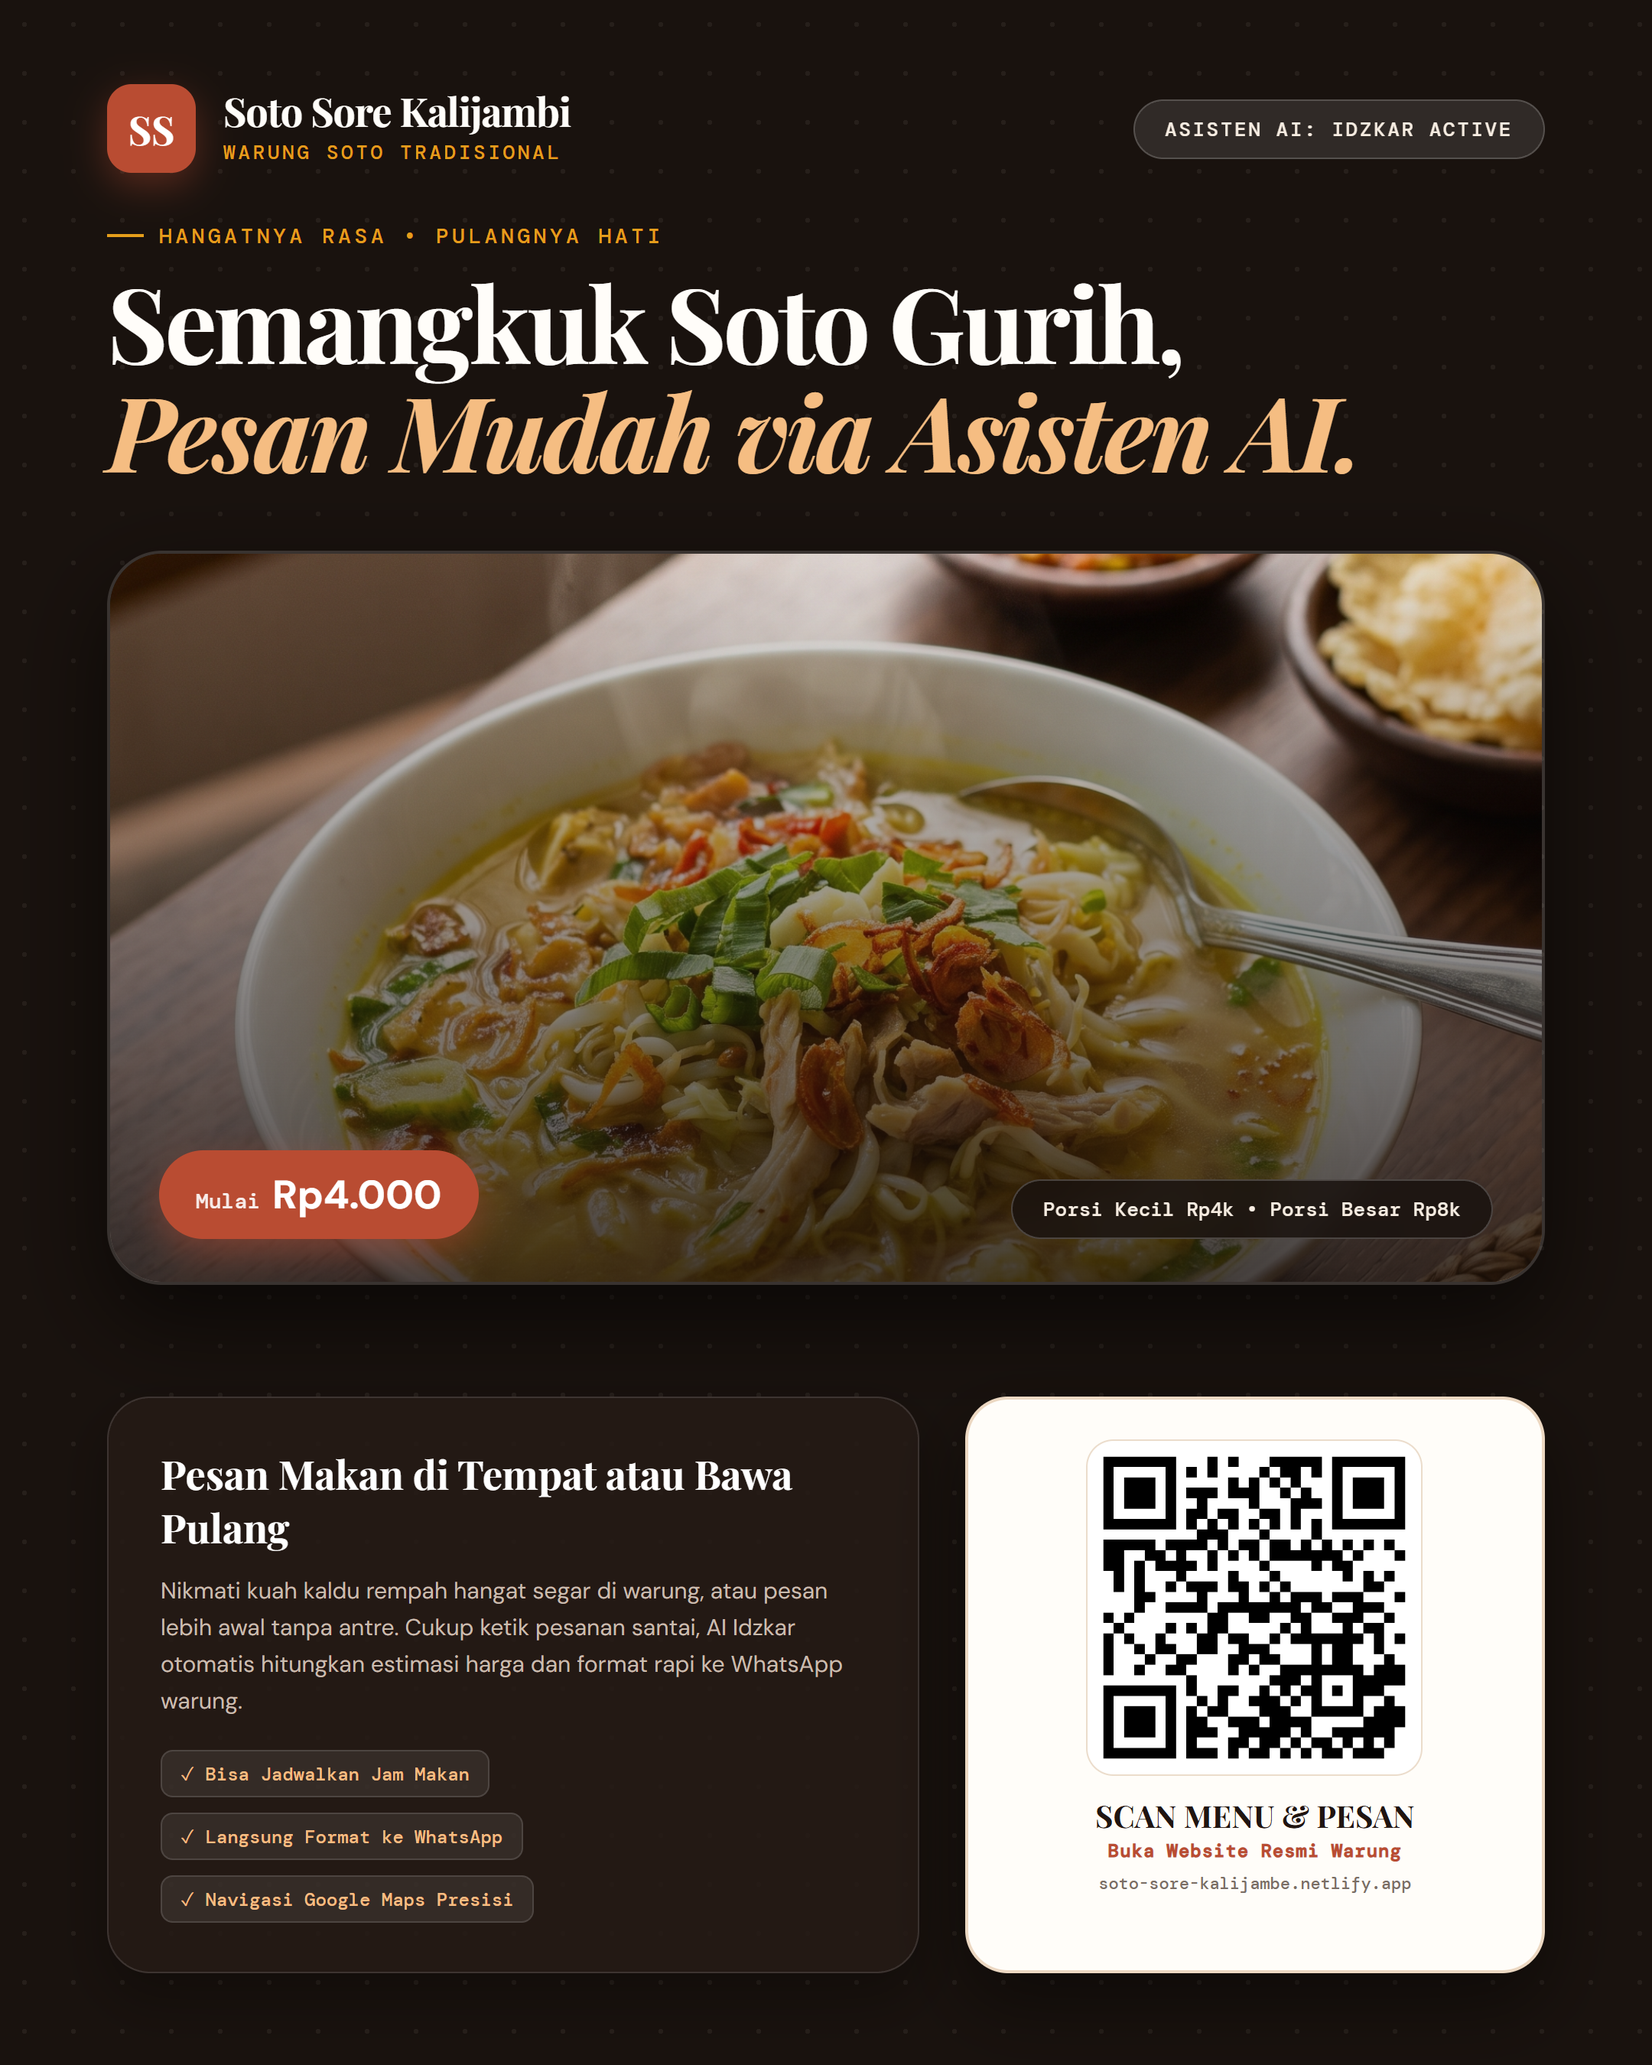
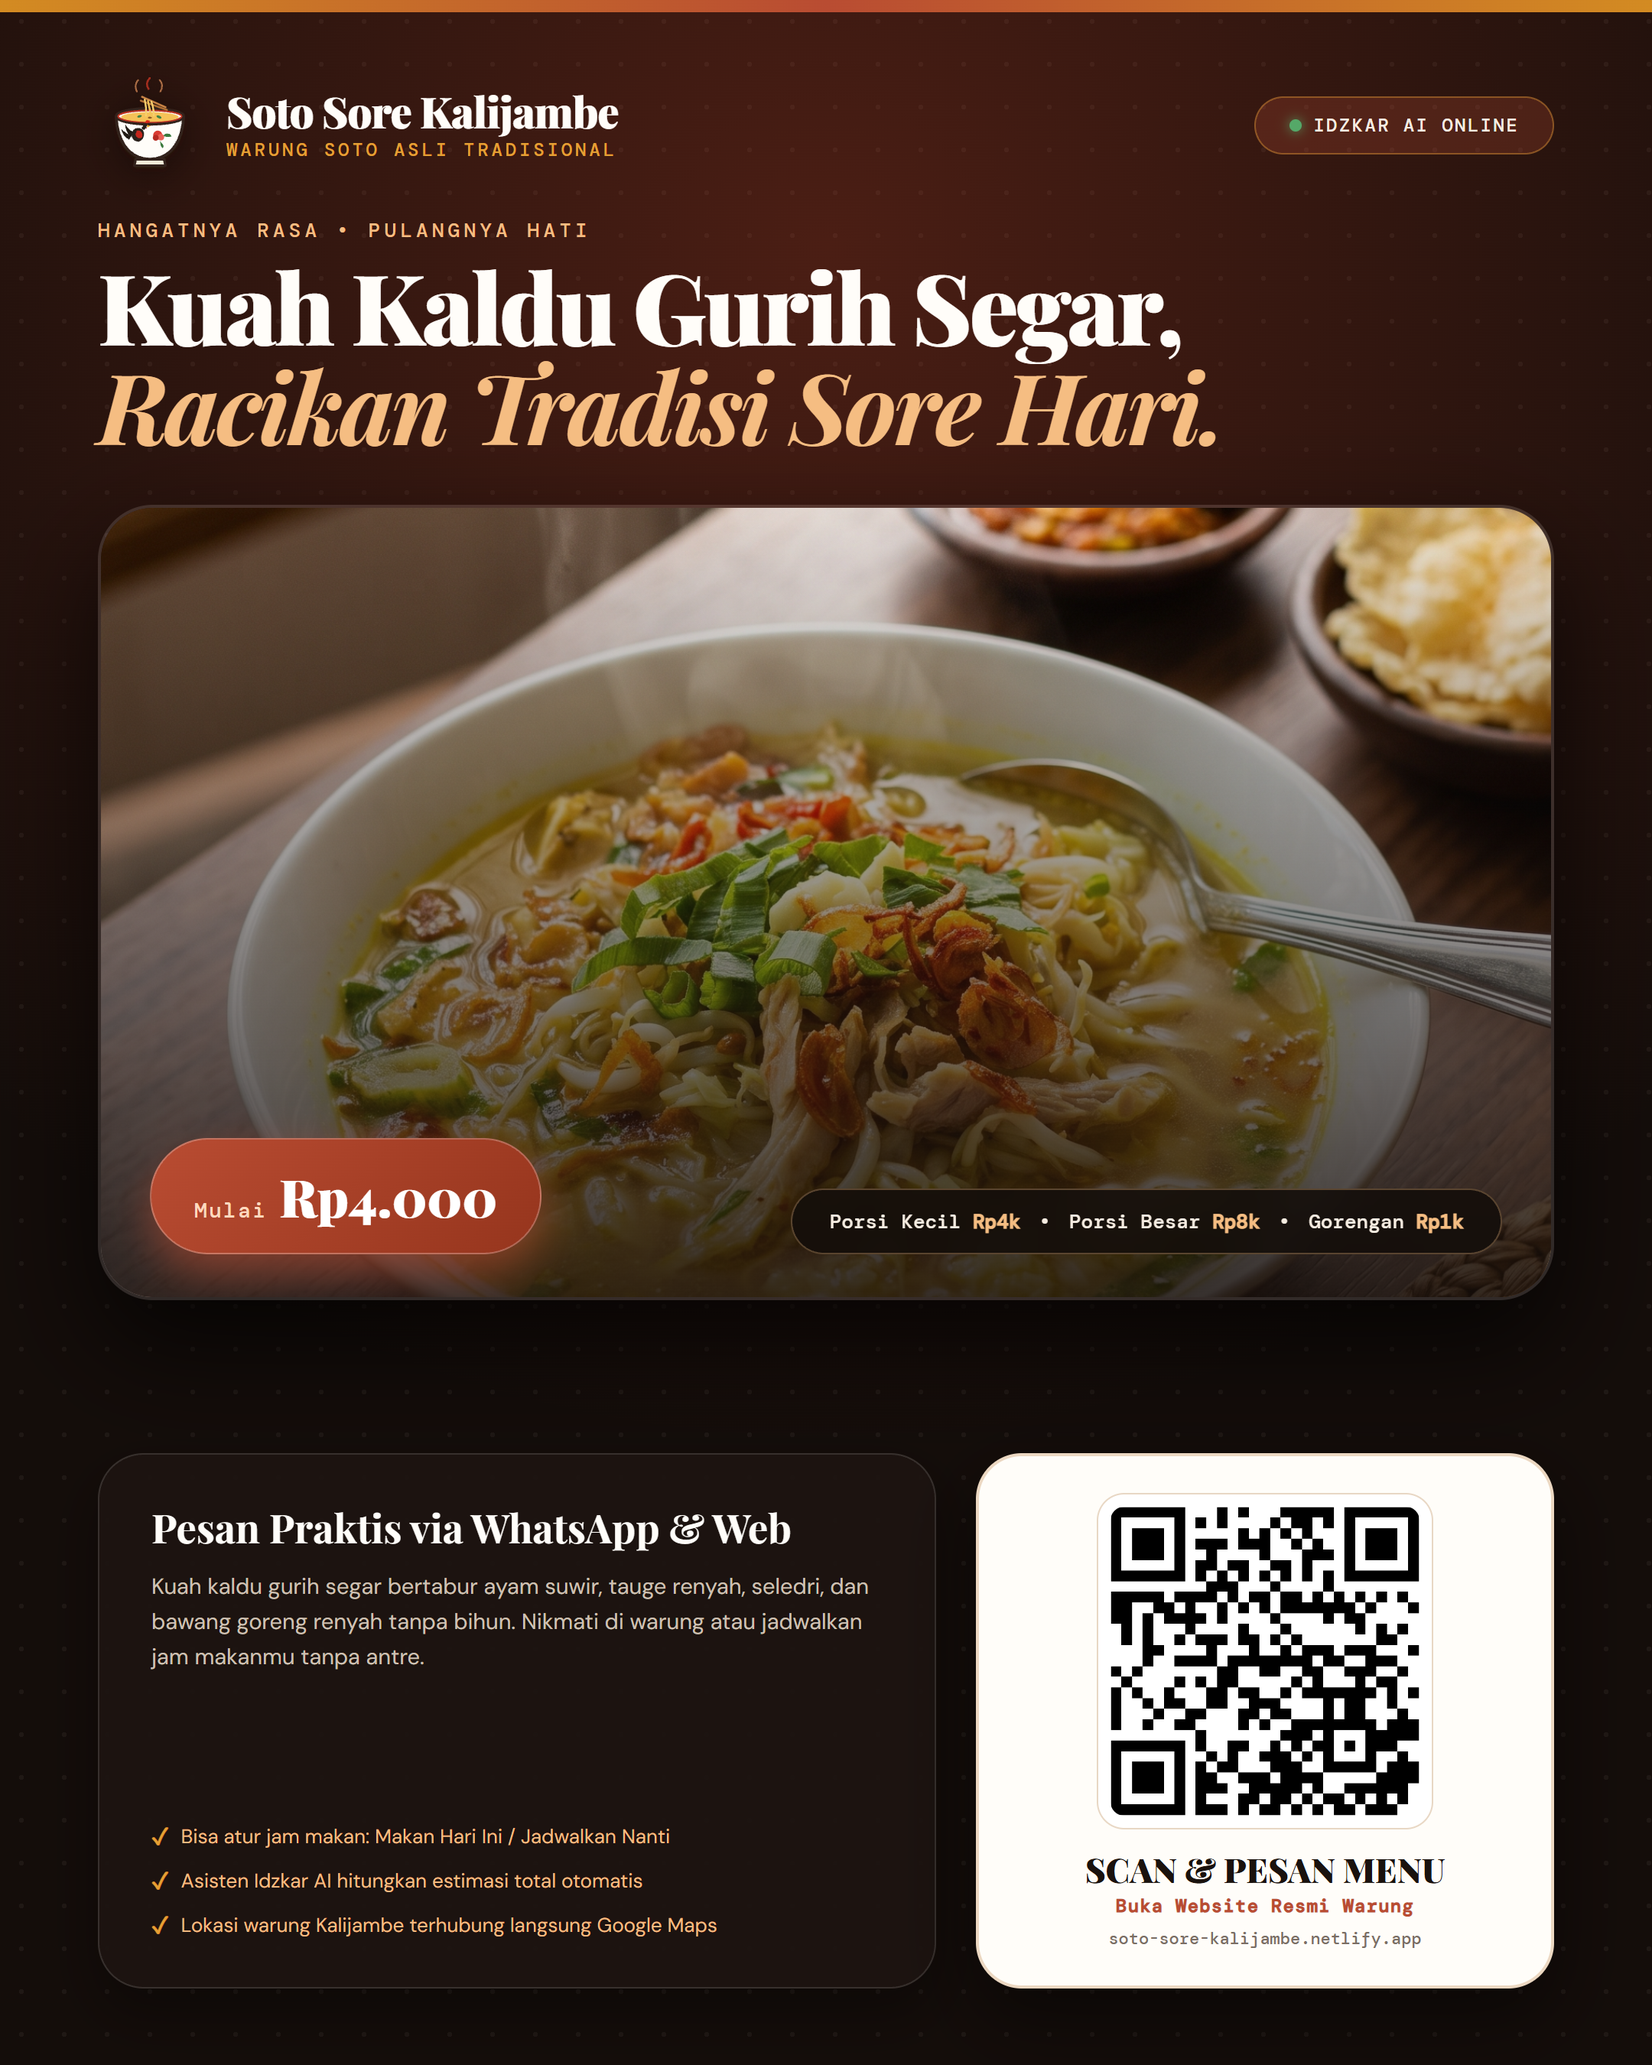
fix: update Kalijambe spelling and soto ingredients description, refresh promo poster

diff --git a/poster-kalijambe.html b/poster-kalijambe.html
@@ -1,0 +1,362 @@
+<!DOCTYPE html>
+<html lang="id">
+<head>
+<meta charset="utf-8">
+<style>
+  @import url('https://fonts.googleapis.com/css2?family=DM+Mono:wght@500;700&family=DM+Sans:ital,wght@0,400;0,600;0,700;1,400;1,600&family=Playfair+Display:ital,wght@0,600;0,700;0,900;1,600;1,700;1,900&display=swap');
+
+  * { box-sizing: border-box; margin: 0; padding: 0; }
+  body {
+    width: 1080px;
+    height: 1350px;
+    background: #140d0a;
+    color: #fffdf9;
+    font-family: 'DM Sans', sans-serif;
+    position: relative;
+    overflow: hidden;
+  }
+
+  /* Vintage Batik/Tenun Micro-Pattern Background */
+  .bg-pattern {
+    position: absolute;
+    inset: 0;
+    background-image: 
+      radial-gradient(circle at 50% 12%, rgba(217, 74, 46, 0.28) 0%, transparent 60%),
+      radial-gradient(rgba(247, 241, 232, 0.05) 1.5px, transparent 1.5px);
+    background-size: 100% 100%, 28px 28px;
+    z-index: 1;
+  }
+
+  .top-strip {
+    position: absolute;
+    top: 0;
+    left: 0;
+    right: 0;
+    height: 8px;
+    background: linear-gradient(90deg, #d38b22, #b94c32, #d38b22);
+    z-index: 20;
+  }
+
+  /* Header Branding */
+  .header {
+    position: absolute;
+    top: 48px;
+    left: 64px;
+    right: 64px;
+    display: flex;
+    justify-content: space-between;
+    align-items: center;
+    z-index: 10;
+  }
+  .brand-group {
+    display: flex;
+    align-items: center;
+    gap: 16px;
+  }
+  .mascot-icon {
+    width: 68px;
+    height: 68px;
+    object-fit: contain;
+    filter: drop-shadow(0 4px 14px rgba(0,0,0,0.5));
+  }
+  .brand-title h2 {
+    font-family: 'Playfair Display', serif;
+    font-size: 28px;
+    font-weight: 800;
+    letter-spacing: -0.02em;
+    color: #fffdf9;
+    line-height: 1.05;
+  }
+  .brand-title span {
+    font-family: 'DM Mono', monospace;
+    font-size: 12px;
+    color: #e5a034;
+    letter-spacing: 0.16em;
+    text-transform: uppercase;
+    margin-top: 3px;
+    display: block;
+  }
+
+  .badge-pilihan {
+    background: rgba(185, 76, 50, 0.25);
+    border: 1px solid rgba(229, 160, 52, 0.4);
+    padding: 10px 22px;
+    border-radius: 99px;
+    display: flex;
+    align-items: center;
+    gap: 8px;
+    font-family: 'DM Mono', monospace;
+    font-size: 12px;
+    letter-spacing: 0.1em;
+    color: #f7ede2;
+  }
+  .badge-dot {
+    width: 8px;
+    height: 8px;
+    border-radius: 50%;
+    background: #55a868;
+    box-shadow: 0 0 8px #55a868;
+  }
+
+  /* Main Headline */
+  .headline-section {
+    position: absolute;
+    top: 142px;
+    left: 64px;
+    right: 64px;
+    z-index: 10;
+  }
+  .tagline-eyebrow {
+    font-family: 'DM Mono', monospace;
+    font-size: 13px;
+    letter-spacing: 0.2em;
+    color: #f5bd82;
+    text-transform: uppercase;
+    margin-bottom: 8px;
+  }
+  h1 {
+    font-family: 'Playfair Display', serif;
+    font-size: 64px;
+    font-weight: 800;
+    line-height: 1.02;
+    letter-spacing: -0.03em;
+    color: #fffdf9;
+  }
+  h1 em {
+    font-style: italic;
+    color: #f5bd82;
+    font-weight: 700;
+  }
+
+  /* Center Stage: Hero Food Photography */
+  .hero-card {
+    position: absolute;
+    top: 330px;
+    left: 64px;
+    right: 64px;
+    height: 520px;
+    border-radius: 36px;
+    overflow: hidden;
+    z-index: 5;
+    box-shadow: 0 30px 70px rgba(0, 0, 0, 0.75);
+    border: 2px solid rgba(255, 255, 255, 0.12);
+  }
+  .hero-card img {
+    width: 100%;
+    height: 100%;
+    object-fit: cover;
+  }
+  .hero-card-gradient {
+    position: absolute;
+    inset: 0;
+    background: linear-gradient(180deg, rgba(20,13,10,0.08) 0%, rgba(20,13,10,0.85) 100%);
+  }
+
+  /* Floating Badges on Photo */
+  .price-tag-big {
+    position: absolute;
+    bottom: 28px;
+    left: 32px;
+    background: linear-gradient(135deg, #b94c32, #96351d);
+    color: #fff;
+    padding: 14px 28px;
+    border-radius: 99px;
+    display: flex;
+    align-items: baseline;
+    gap: 8px;
+    box-shadow: 0 12px 28px rgba(185, 76, 50, 0.6);
+    border: 1px solid rgba(255, 255, 255, 0.25);
+  }
+  .price-tag-big span {
+    font-family: 'DM Mono', monospace;
+    font-size: 14px;
+    letter-spacing: 0.08em;
+    color: #fed9bf;
+  }
+  .price-tag-big strong {
+    font-family: 'Playfair Display', serif;
+    font-size: 34px;
+    font-weight: 800;
+  }
+
+  .ingredients-badge {
+    position: absolute;
+    bottom: 28px;
+    right: 32px;
+    background: rgba(18, 12, 9, 0.88);
+    backdrop-filter: blur(12px);
+    border: 1px solid rgba(245, 189, 130, 0.3);
+    padding: 12px 24px;
+    border-radius: 99px;
+    font-family: 'DM Mono', monospace;
+    font-size: 13px;
+    color: #f7ede2;
+    display: flex;
+    align-items: center;
+    gap: 12px;
+  }
+  .ingredients-badge strong {
+    color: #f5bd82;
+  }
+
+  /* Bottom Split: Highlights + Scannable QR */
+  .bottom-row {
+    position: absolute;
+    bottom: 50px;
+    left: 64px;
+    right: 64px;
+    display: grid;
+    grid-template-columns: 1.45fr 1fr;
+    gap: 26px;
+    z-index: 10;
+  }
+
+  .info-card {
+    background: rgba(28, 20, 16, 0.92);
+    border: 1px solid rgba(255, 255, 255, 0.12);
+    border-radius: 30px;
+    padding: 30px 34px;
+    display: flex;
+    flex-direction: column;
+    justify-content: space-between;
+    box-shadow: 0 16px 36px rgba(0,0,0,0.35);
+  }
+  .info-title {
+    font-family: 'Playfair Display', serif;
+    font-size: 26px;
+    font-weight: 700;
+    color: #fffdf9;
+    margin-bottom: 10px;
+  }
+  .info-desc {
+    font-size: 14.5px;
+    line-height: 1.6;
+    color: #cec1b5;
+    margin-bottom: 18px;
+  }
+  .feature-list {
+    display: flex;
+    flex-direction: column;
+    gap: 8px;
+  }
+  .feature-item {
+    font-size: 13px;
+    font-family: 'DM Sans', sans-serif;
+    color: #f5bd82;
+    display: flex;
+    align-items: center;
+    gap: 8px;
+  }
+  .feature-item span {
+    color: #e5a034;
+    font-size: 15px;
+    font-weight: bold;
+  }
+
+  /* QR Box Call to Action */
+  .qr-card {
+    background: #fffdf9;
+    color: #1e1410;
+    border-radius: 30px;
+    padding: 24px;
+    display: flex;
+    flex-direction: column;
+    align-items: center;
+    text-align: center;
+    box-shadow: 0 20px 50px rgba(0,0,0,0.5);
+    border: 2px solid #ecd8c2;
+  }
+  .qr-code-img {
+    width: 220px;
+    height: 220px;
+    background: #fff;
+    border-radius: 18px;
+    padding: 8px;
+    border: 1px solid #e8d7c4;
+    display: block;
+  }
+  .qr-heading {
+    margin-top: 14px;
+    font-family: 'Playfair Display', serif;
+    font-size: 22px;
+    font-weight: 800;
+    line-height: 1.1;
+    color: #1a120e;
+  }
+  .qr-subtext {
+    margin-top: 4px;
+    font-family: 'DM Mono', monospace;
+    font-size: 12px;
+    color: #b94c32;
+    font-weight: 700;
+    letter-spacing: 0.05em;
+  }
+  .qr-site-url {
+    margin-top: 6px;
+    font-family: 'DM Mono', monospace;
+    font-size: 11px;
+    color: #7a6e65;
+  }
+</style>
+</head>
+<body>
+<div class="top-strip"></div>
+<div class="bg-pattern"></div>
+
+<div class="header">
+  <div class="brand-group">
+    <img class="mascot-icon" src="C:/Users/Lenovo/Desktop/soto sore/public/assets/mascot-ayam-jago.svg" alt="Maskot Ayam Jago Soto Sore">
+    <div class="brand-title">
+      <h2>Soto Sore Kalijambe</h2>
+      <span>Warung Soto Asli Tradisional</span>
+    </div>
+  </div>
+  <div class="badge-pilihan">
+    <span class="badge-dot"></span>
+    <span>IDZKAR AI ONLINE</span>
+  </div>
+</div>
+
+<div class="headline-section">
+  <p class="tagline-eyebrow">HANGATNYA RASA • PULANGNYA HATI</p>
+  <h1>Kuah Kaldu Gurih Segar,<br><em>Racikan Tradisi Sore Hari.</em></h1>
+</div>
+
+<div class="hero-card">
+  <img src="C:/Users/Lenovo/Desktop/soto sore/public/assets/soto-bowl-meja.jpeg" alt="Semangkuk Soto Ayam Gurih Hangat Kalijambe">
+  <div class="hero-card-gradient"></div>
+  <div class="price-tag-big">
+    <span>Mulai</span>
+    <strong>Rp4.000</strong>
+  </div>
+  <div class="ingredients-badge">
+    <span>Porsi Kecil <strong>Rp4k</strong></span>
+    <span>•</span>
+    <span>Porsi Besar <strong>Rp8k</strong></span>
+    <span>•</span>
+    <span>Gorengan <strong>Rp1k</strong></span>
+  </div>
+</div>
+
+<div class="bottom-row">
+  <div class="info-card">
+    <div>
+      <h3 class="info-title">Pesan Praktis via WhatsApp & Web</h3>
+      <p class="info-desc">Kuah kaldu gurih segar bertabur ayam suwir, tauge renyah, seledri, dan bawang goreng renyah tanpa bihun. Nikmati di warung atau jadwalkan jam makanmu tanpa antre.</p>
+    </div>
+    <div class="feature-list">
+      <div class="feature-item"><span>✓</span> Bisa atur jam makan: Makan Hari Ini / Jadwalkan Nanti</div>
+      <div class="feature-item"><span>✓</span> Asisten Idzkar AI hitungkan estimasi total otomatis</div>
+      <div class="feature-item"><span>✓</span> Lokasi warung Kalijambe terhubung langsung Google Maps</div>
+    </div>
+  </div>
+
+  <div class="qr-card">
+    <img class="qr-code-img" src="C:/Users/Lenovo/Desktop/soto sore/public/assets/qr-website-soto.png" alt="Scan QR Code Website">
+    <div class="qr-heading">SCAN & PESAN MENU</div>
+    <div class="qr-subtext">Buka Website Resmi Warung</div>
+    <div class="qr-site-url">soto-sore-kalijambe.netlify.app</div>
+  </div>
+</div>
+</body>
+</html>

diff --git a/public/index.html b/public/index.html
@@ -15,9 +15,9 @@
     <p class="eyebrow">CERITA KAMI</p>
     <h2>Semangkuk kecil,<br><em>rasa besar.</em></h2>
   </div>
-  <p class="intro-copy">Di Soto Sore Kalijambi, setiap mangkuk diracik hangat dengan rasa yang akrab. Dari kuah gurih sampai taburan bawang goreng, semua dibuat untuk jadi jeda terbaik di penghujung hari.</p>
+  <p class="intro-copy">Di Soto Sore Kalijambe, setiap mangkuk diracik hangat dengan rasa yang akrab. Dari kuah gurih sampai taburan bawang goreng, semua dibuat untuk jadi jeda terbaik di penghujung hari.</p>
 </section>
-<section id="menu" class="menu-section"><div class="section-head"><div><p class="eyebrow">MENU HARI INI</p><h2>Pilih yang<br><em>menghangatkan.</em></h2></div><p>Menu sederhana, bahan familiar,<br>rasa yang ingin diulang.</p></div><div class="menu-grid"><div class="menu-card featured"><span class="menu-no">01 / SOTO</span><h3>Soto Ayam<br>Porsi Besar</h3><p>Kuah kuning gurih, ayam suwir, tauge, bihun, seledri, dan bawang goreng.</p><strong>Rp8.000</strong><span class="card-line"></span></div><div class="menu-card"><span class="menu-no">02 / SOTO</span><h3>Soto Ayam<br>Porsi Kecil</h3><p>Pas untuk teman sore atau penghangat sebelum pulang.</p><strong>Rp4.000</strong><span class="card-line"></span></div><div class="menu-card"><span class="menu-no">03 / MINUMAN</span><h3>Teh</h3><p>Es atau hangat.</p><strong>Rp3.000</strong><span class="card-line"></span></div><div class="menu-card"><span class="menu-no">04 / MINUMAN</span><h3>Jeruk & Susu</h3><p>Es atau hangat.</p><strong>Rp4.000</strong><span class="card-line"></span></div><div class="menu-card"><span class="menu-no">05 / PELENGKAP</span><h3>Gorengan</h3><p>Teman renyah untuk kuah hangat.</p><strong>Rp1.000</strong><span class="card-line"></span></div><div class="menu-card"><span class="menu-no">06 / PELENGKAP</span><h3>Tusukan & Pangsit</h3><p>Tusukan Rp3.000 · Pangsit Rp1.500 · Krupuk Rp1.000</p><strong>Mulai Rp1.000</strong><span class="card-line"></span></div></div></section>
+<section id="menu" class="menu-section"><div class="section-head"><div><p class="eyebrow">MENU HARI INI</p><h2>Pilih yang<br><em>menghangatkan.</em></h2></div><p>Menu sederhana, bahan familiar,<br>rasa yang ingin diulang.</p></div><div class="menu-grid"><div class="menu-card featured"><span class="menu-no">01 / SOTO</span><h3>Soto Ayam<br>Porsi Besar</h3><p>Kuah kaldu gurih segar, ayam suwir, tauge, seledri, dan taburan bawang goreng.</p><strong>Rp8.000</strong><span class="card-line"></span></div><div class="menu-card"><span class="menu-no">02 / SOTO</span><h3>Soto Ayam<br>Porsi Kecil</h3><p>Pas untuk teman sore atau penghangat sebelum pulang.</p><strong>Rp4.000</strong><span class="card-line"></span></div><div class="menu-card"><span class="menu-no">03 / MINUMAN</span><h3>Teh</h3><p>Es atau hangat.</p><strong>Rp3.000</strong><span class="card-line"></span></div><div class="menu-card"><span class="menu-no">04 / MINUMAN</span><h3>Jeruk & Susu</h3><p>Es atau hangat.</p><strong>Rp4.000</strong><span class="card-line"></span></div><div class="menu-card"><span class="menu-no">05 / PELENGKAP</span><h3>Gorengan</h3><p>Teman renyah untuk kuah hangat.</p><strong>Rp1.000</strong><span class="card-line"></span></div><div class="menu-card"><span class="menu-no">06 / PELENGKAP</span><h3>Tusukan & Pangsit</h3><p>Tusukan Rp3.000 · Pangsit Rp1.500 · Krupuk Rp1.000</p><strong>Mulai Rp1.000</strong><span class="card-line"></span></div></div></section>
 <section id="dapur" class="kitchen"><div class="kitchen-head"><div><p class="eyebrow">IDZKAR SOTO AGENT</p><h2>Tulis pesanan.<br><em>Kirim langsung.</em></h2></div><p>Idzkar membantu menyusun teks pesanan. Kamu cek dulu, lalu kirim langsung ke WhatsApp warung.</p></div><div class="kitchen-grid"><form id="order-form" class="order-form"><div class="agent-brand-header"><img class="mascot-jago-large" src="/assets/mascot-ayam-jago.svg" alt="Maskot Ayam Jago Soto Sore"><div><div class="agent-tag">ASISTEN DAPUR VIRTUAL</div><strong class="agent-title">Idzkar — Mangkok Ayam Jago</strong></div></div><div class="agent-greeting"><span class="agent-dot"></span><span id="agent-message">Halo. Sebutkan pesanan, Idzkar yang rapikan.</span></div><div id="ai-estimate" class="ai-box hidden"><div class="ai-box-row"><span>Estimasi Total</span><strong id="ai-total">Rp0</strong></div><div id="ai-suggestion" class="ai-suggestion"></div></div><div class="schedule-picker">
   <div class="schedule-toggle-row">
     <label class="schedule-label">WAKTU PESANAN</label>
